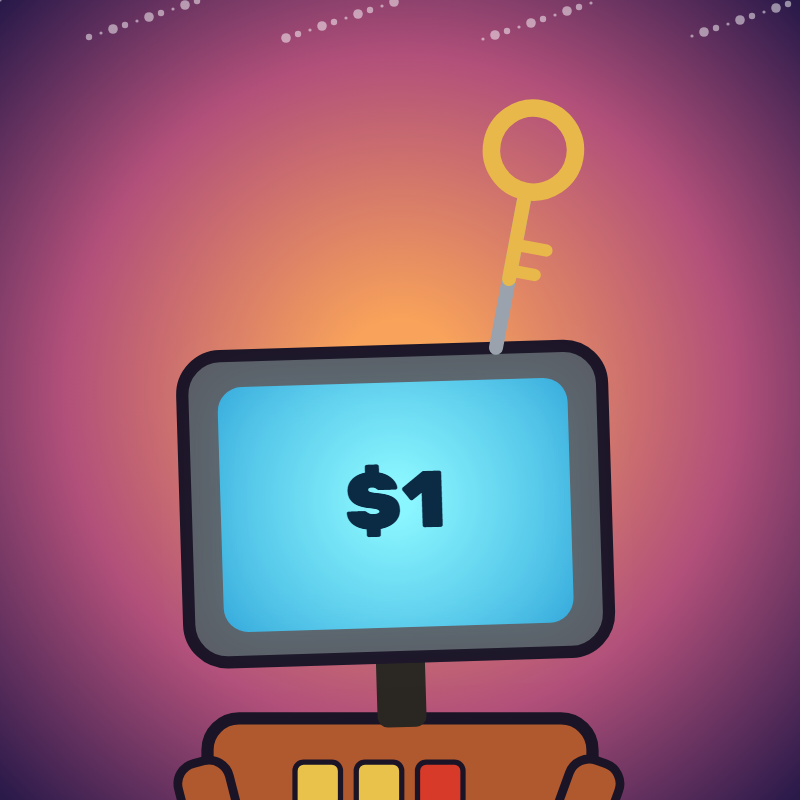
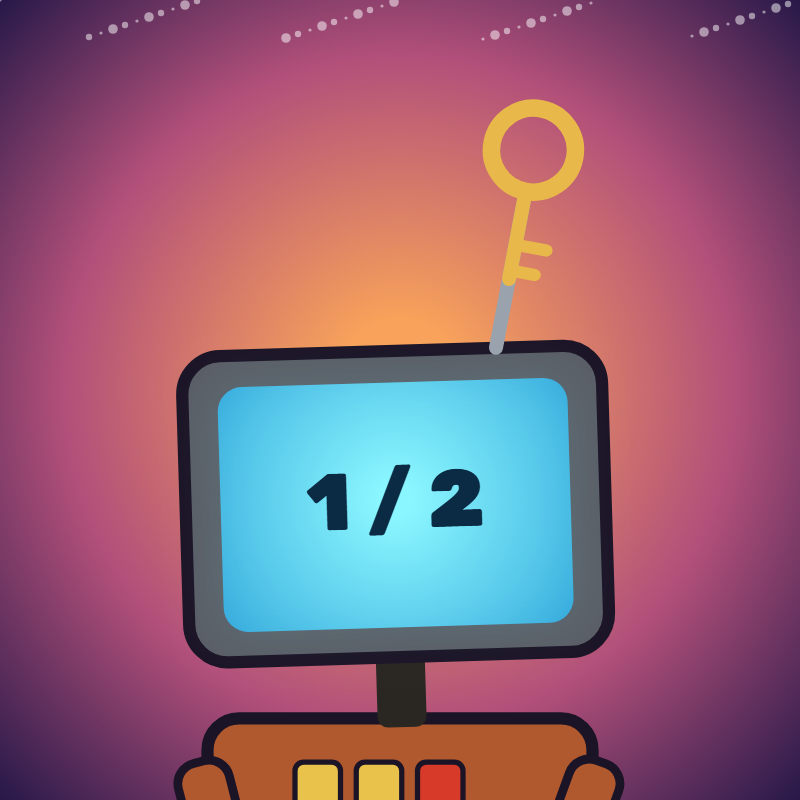
Английский канал: название Comment Decides, новая шапка и аватар

Changed region(s): [[0.375, 0.5625, 0.625, 0.6875]]

diff --git a/stsenarii/kanal-en.md b/stsenarii/kanal-en.md
@@ -1,16 +1,14 @@
-# Английский канал — оформление и тексты
+# Английский канал «Comment Decides» — оформление и тексты
 
-Файлы: аватар `gotovo/kanal-en/avatar.png` (800×800, робот Key с «$1» на экране), шапка `gotovo/kanal-en/shapka.png` (2560×1440; текст в безопасной зоне 1546×423 — видно на телефоне, ПК и ТВ). Генератор: `render/kanal-en/brending.mjs`.
+Файлы: аватар `gotovo/kanal-en/avatar.png` (800×800, робот Key с «1 / 2» на экране), шапка `gotovo/kanal-en/shapka.png` (2560×1440; текст в безопасной зоне 1546×423 — видно на телефоне, ПК и ТВ). Генератор: `render/kanal-en/brending.mjs`.
 
 ## Название канала
-**Bought for $1** — совпадает с тем, что ищут («bought for $1», «for 1 dollar»), и шире одного сериала: следом можно делать «Bought an island for $1», «Bought a zoo for $1».
-Хэндл: `@boughtfor1` (если занят — `@boughtfor1dollar`, `@bought4one`).
-
-Запасные: **Comment Decides** (упор на голосование), **$1 Empire**.
+**Comment Decides** — канал не про одну тему: любые мультсериалы, где зрители в комментариях выбирают, что будет дальше (космодром за $1, остров, город, выживание…).
+Хэндл: `@commentdecides` (если занят — `@commentdecidestv`, `@thecommentdecides`).
+Запасные: **You Decide Toons**, **Your Move**.
 
 ## Описание канала (About)
-You bought it for $1. But there's always a catch.
-Animated series where YOU decide what happens next — every episode ends with a choice, and the comments pick the path. The most popular answer opens the next episode.
+Animated series where YOU decide what happens next. Every episode ends with a choice — the comments pick the path, and the most popular answer opens the next episode.
 
 Now running: **Spaceport for $1** — 30 days to launch a rocket with people, or lose everything.
 New episode every day. 🚀
